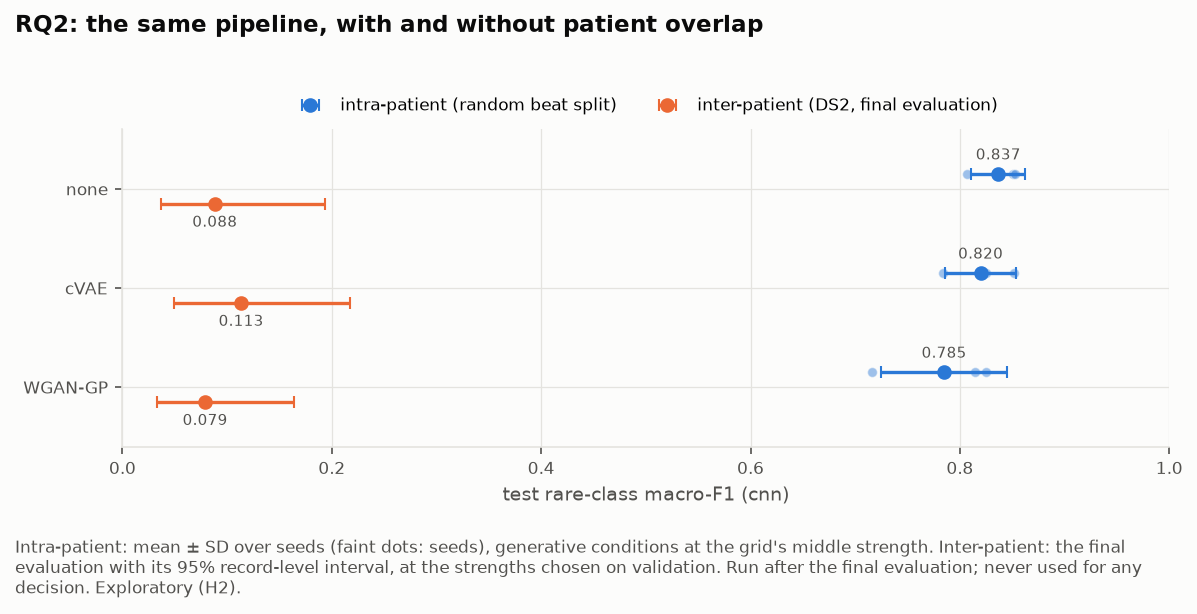
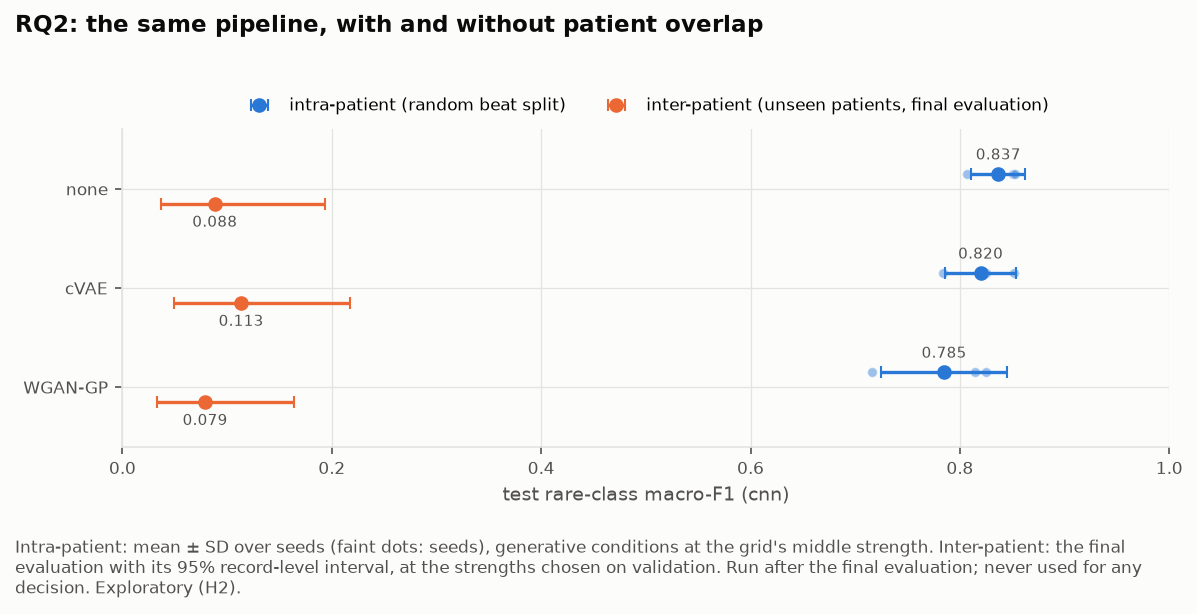
Audit figure legend: no DS2 in figure code

Changed region(s): [[0.1855, 0.1547, 0.8655, 0.1857]]

diff --git a/src/ecgaug/figures.py b/src/ecgaug/figures.py
@@ -816,7 +816,7 @@ def leakage_audit_figure(summary: dict) -> list[Path]:
         ax.scatter(intra["per_seed"], [i + 0.15] * len(intra["per_seed"]), s=22, color=intra_color, alpha=0.45, edgecolor=SURFACE, linewidth=0.6)
         ax.errorbar(intra["mean"], i + 0.15, xerr=intra["sd"], fmt="o", color=intra_color, capsize=3, label="intra-patient (random beat split)" if i == 0 else None)
         ax.errorbar(inter["point"], i - 0.15, xerr=[[inter["point"] - inter["ci_low"]], [inter["ci_high"] - inter["point"]]], fmt="o",
-                    color=inter_color, capsize=3, label="inter-patient (DS2, final evaluation)" if i == 0 else None)  # fmt: skip
+                    color=inter_color, capsize=3, label="inter-patient (unseen patients, final evaluation)" if i == 0 else None)  # fmt: skip
         ax.annotate(f"{intra['mean']:.3f}", (intra["mean"], i + 0.15), xytext=(0, 7), textcoords="offset points", ha="center", fontsize=7, color=INK_2)
         ax.annotate(f"{inter['point']:.3f}", (inter["point"], i - 0.15), xytext=(0, -11), textcoords="offset points", ha="center", fontsize=7, color=INK_2)
     ax.set_yticks(range(len(conditions)), [names[c] for c in reversed(conditions)])
